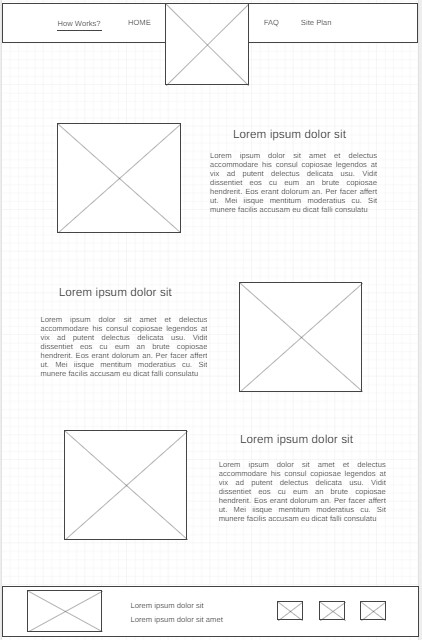
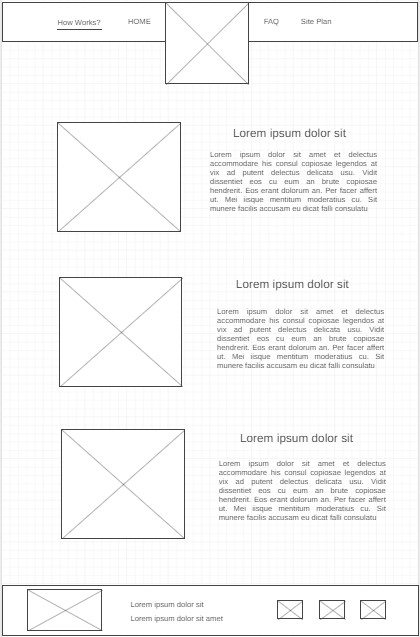
subpage

diff --git a/personal_website/howorks.html b/personal_website/howorks.html
@@ -35,10 +35,10 @@
         <main>
             <div id="grid-works">
                 <div class="image_instagram">
-                    <img src="images/page2-instagram.jpg" alt="instagram image branding" width="300" height="280">
+                    <img class="card_img" src="images/page2-instagram.jpg" alt="instagram image branding" width="300" height="280">
                 </div>
                 <section class="instagram_section">
-                    <h3>How works the algorithm of Instagram?</h3>
+                    <h3 class="title_h3">How works the algorithm of Instagram?</h3>
                     <p>Since 2020 the algorithm of Instagram
                         switch to famous videos called “reels”
                         and left out the photos because the reels
@@ -49,8 +49,11 @@
                         as most as possible. I recommend this video from
                         my YouTube channel to know more about this topic.</p>
                 </section>
+                <div class="image_youtube">
+                    <img class="card_img" src="images/page2-youtube.jpg" alt="youtube app image" width="300" height="310">
+                </div>
                 <section class="youtube_section">
-                    <h3>How works the algorithm of YouTube?</h3>
+                    <h3 class="title_h3">How works the algorithm of YouTube?</h3>
                     <p>The algorithm of YouTube turns around
                         how much time people spend seeing your
                         video. So, if you have a video of 10
@@ -67,14 +70,11 @@
                         recommend this video from my personal
                         profile on YouTube.</p>
                 </section>
-                <div class="image_youtube">
-                    <img src="images/page2-youtube.jpg" alt="youtube app image" width="300" height="310">
-                </div>
                 <div class="image_tiktok">
-                    <img src="images/page2-tiktok.jpg" alt="tiktok app image" width="300" height="280">
+                    <img class="card_img" src="images/page2-tiktok.jpg" alt="tiktok app image" width="300" height="280">
                 </div>
                 <section class="tiktok_section">
-                    <h3>How works the algorithm of TikTok?</h3>
+                    <h3 class="title_h3">How works the algorithm of TikTok?</h3>
                     <p>TikTok is now ranked as one of the best
                         algorithms of all social networks, which
                         means "TikTok" can satisfy users by recommending
@@ -92,7 +92,7 @@
         <footer>
             <img class="logo" src="images/logo.png" alt="algorithm 152 logo" width="150" height="150">
             <h3>Algorithm 152 &copy; 2022 - Valencia Juan</h3>
-            <h3><a href="site-plan.html">Site Plan</a></h3>
+            <h3><a class="site_plan" href="site-plan.html" target="_blank">Site Plan</a></h3>
             <div class="social">
                 <a href="https://youtube.com" target="_blank">
                     <img class="social-media" src="images/youtube.png" alt="youtube icon">
@@ -107,5 +107,4 @@
         </footer>
     </div>
 </body>
-
 </html>

diff --git a/personal_website/styles/style.css b/personal_website/styles/style.css
@@ -359,28 +359,75 @@ footer a {
     padding: 35px;
     background-color:var(--accent1-color);
     color: black;
-
 }
-
 
 #grid-works {
     display: grid;
     grid-template-columns: 1fr 1fr;
     grid-template-rows: 1fr 1fr 1fr;
+    gap: 20px;
+    margin: 0 auto;
+    padding: 0 1em;
+}
+
+.card_img {
+    border: 5px solid var(--primary-color);
+    box-shadow: 5px 5px 10px var(--primary-color);
+}
+
+.title_h3 {
+    background-color: var(--primary-color);
+    margin-bottom: 0;
+    border: 5px solid var(--primary-color);
 }
 
 .image_instagram {
     display: grid;
     grid-area: 1 / 1 / 2 / 2;
     justify-content: center;
-    
+    padding: 40px;
 }
 
 .instagram_section {
     display: grid;
     grid-area: 1 / 2 / 2 / 3;
+    padding: 25px;
+    text-align: justify;
+}
+
+.youtube_section {
+    display: grid;
+    grid-row: 2/3;
+    grid-column: 2/3;
+    padding: 25px;
+    text-align: justify;
+}
+
+.image_youtube {
+    display: grid;
+    grid-row: 2 /3;
+    grid-column: 1 / 2;
+    justify-content: center;
+    padding: 40px;
+}
+
+.image_tiktok {
+    display: grid;
+    grid-row: 3/4;
+    grid-column: 1/2;
+    padding: 40px;
     justify-content: center;
 }
+
+.tiktok_section {
+    display: grid;
+    grid-row: 3/4;
+    grid-column: 2/3;
+    padding: 25px;
+    text-align: justify;  
+}
+
+
 
 
 @media (max-width: 40em) {
@@ -424,6 +471,10 @@ footer a {
 
     footer {
         margin-top: 25px;
+    }
+    /*------------------- main how works----------------------*/
+    #grid-works {
+        display: block;
     }
 
 }

diff --git a/personal_website/site-plan.html b/personal_website/site-plan.html
@@ -222,7 +222,6 @@
 
       </p>
       <img src="images/works-frame.jpg" alt="page 2 wireframe">
-e
       <h3>FAQ</h3>
       <p>         
 
